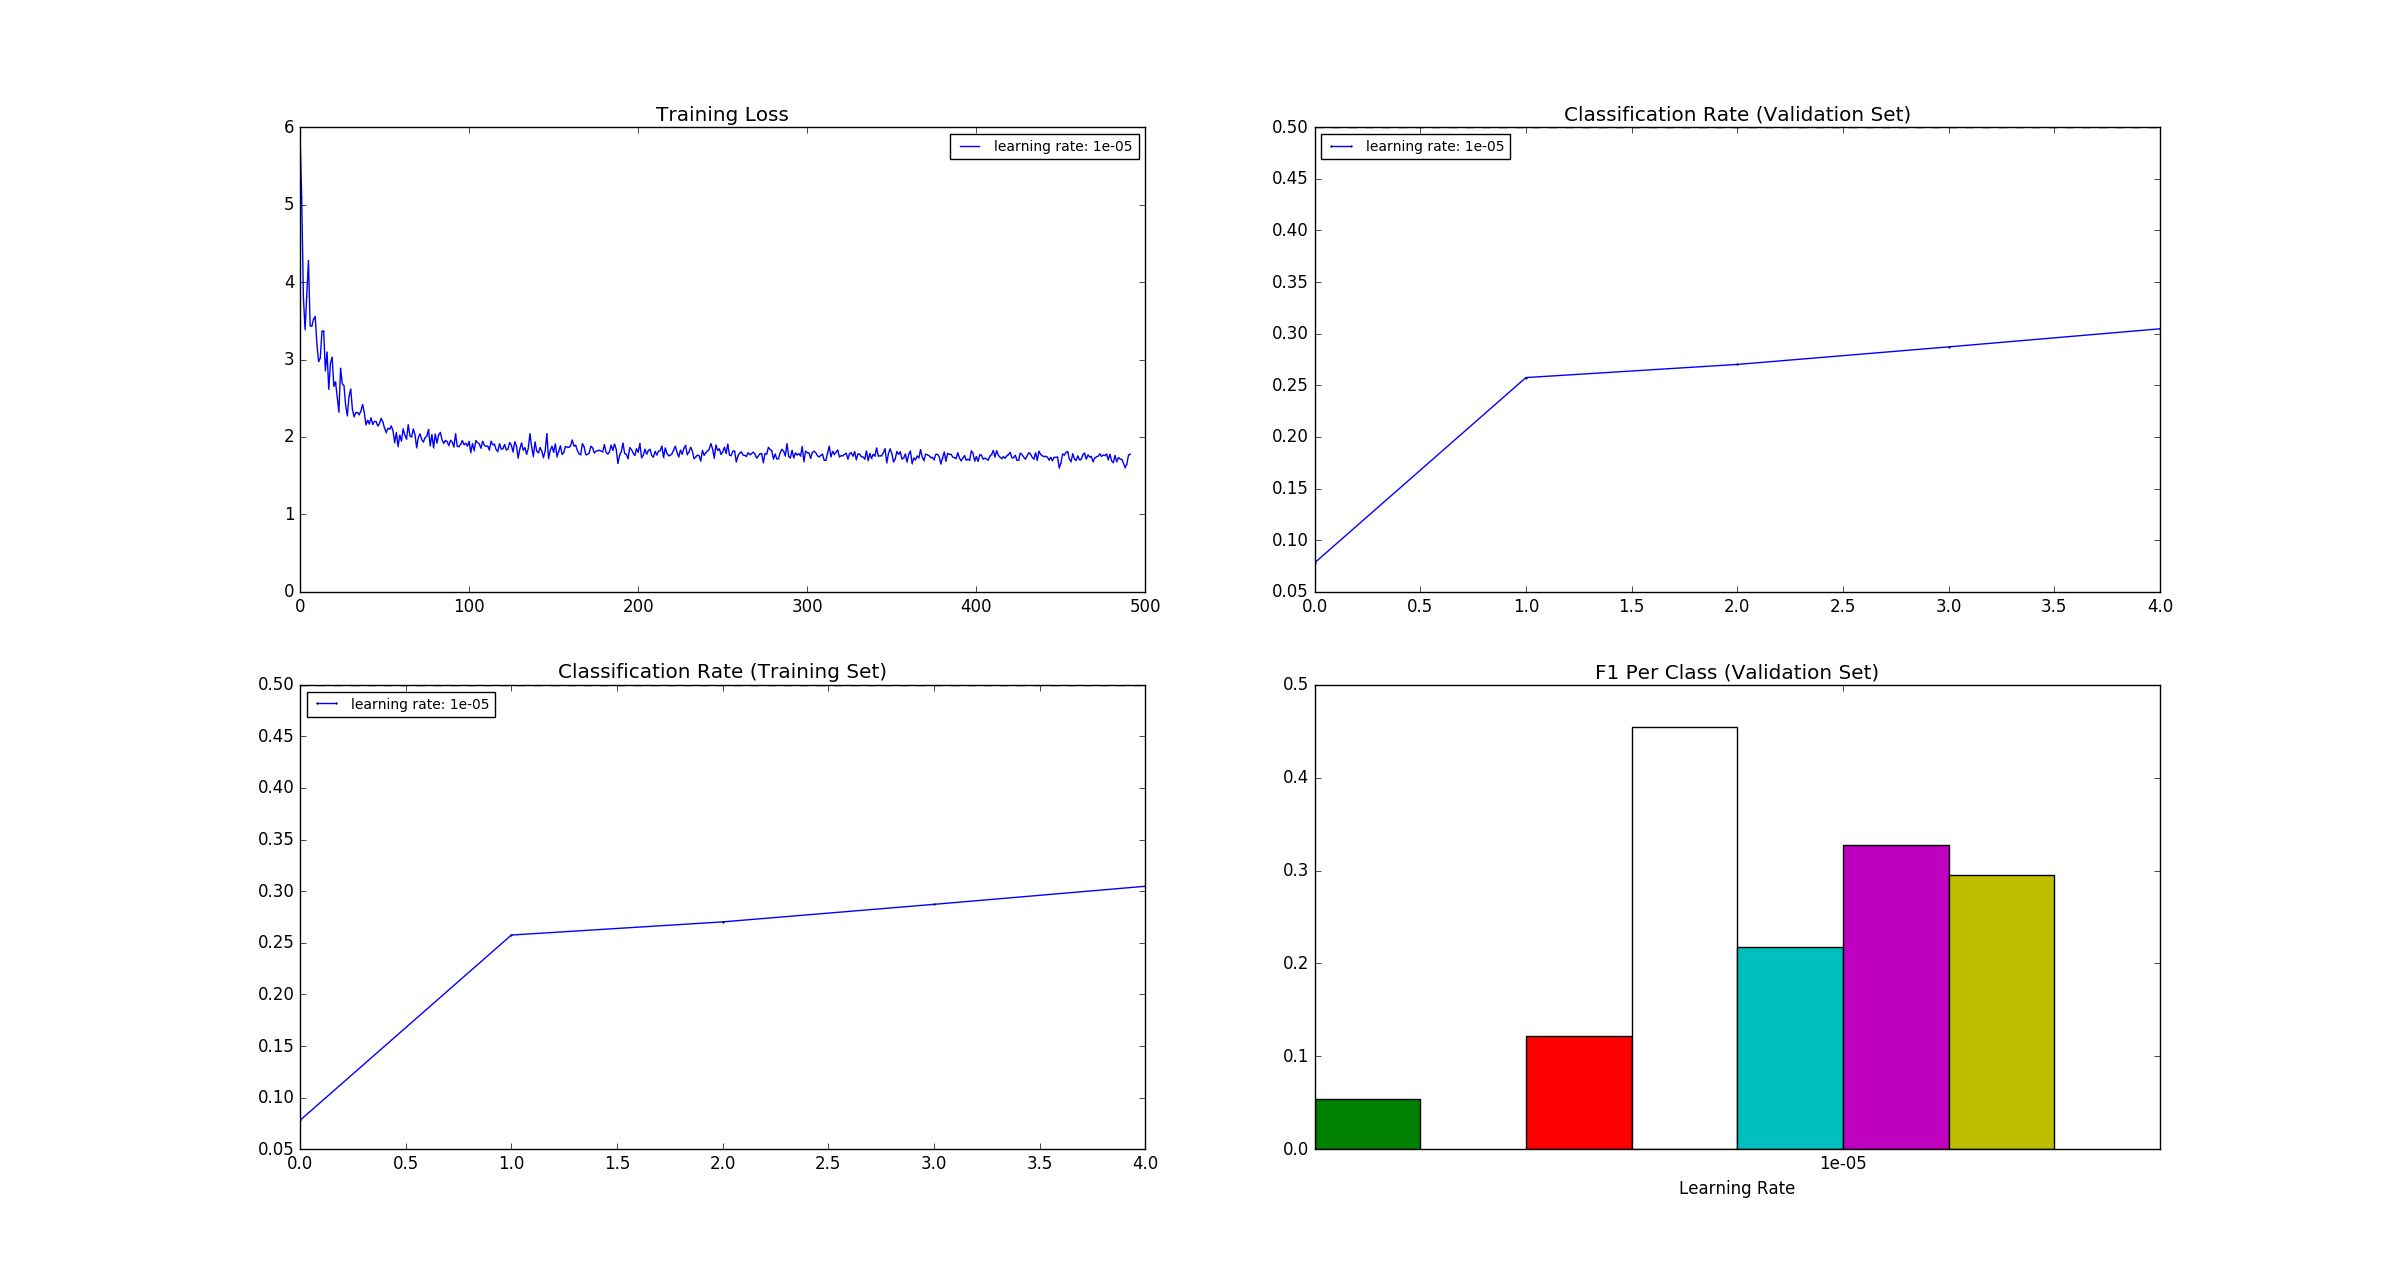
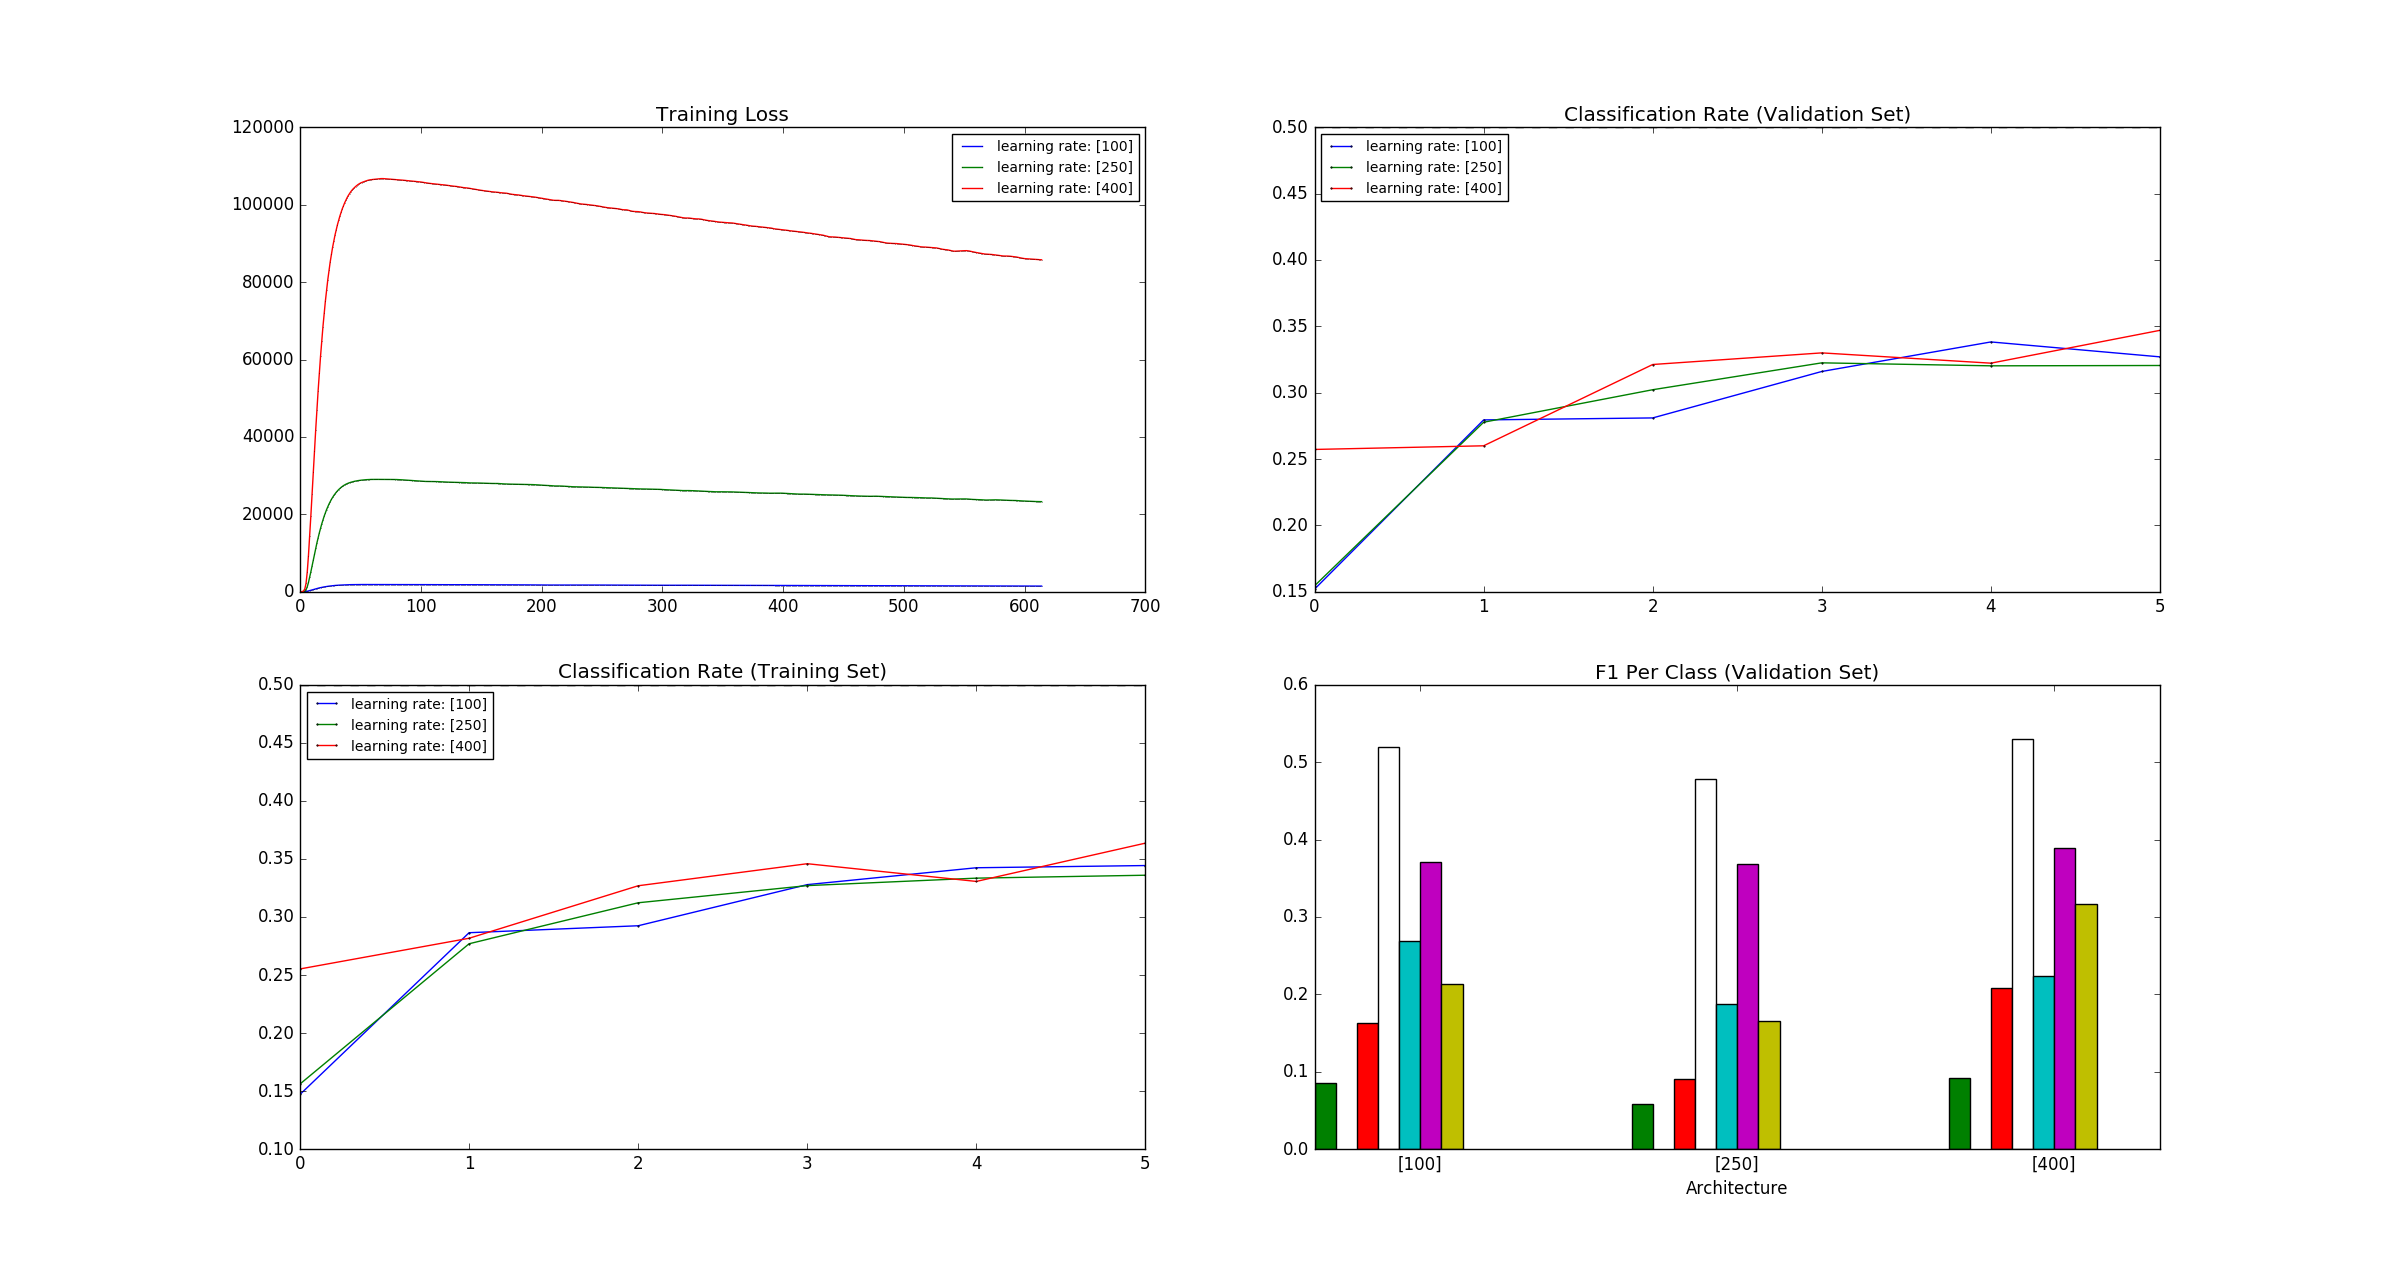
merge

diff --git a/src/optimising/learning.py b/src/optimising/learning.py
@@ -24,7 +24,7 @@ classAccs = []
 for learningRate in learningRates:
     # print(learningRate)
     model = FullyConnectedNet([120],input_dim = 48*48*1, dropout=0, reg=0, dtype=np.float64, seed=237)
-    number_epochs = 3
+    number_epochs = 2
     solver = Solver(model,data_dict,optim_config={'learning_rate':learningRate},lr_decay=1,num_epochs=number_epochs,batch_size=200,print_every=5000,num_train_samples=40000)
     results = solver.train()
     losses.append(solver.loss_history)
@@ -41,7 +41,7 @@ fig = plt.figure(figsize=(3,6))
 plt.subplot(2,2,1)
 plt.title("Training Loss")
 for i, loss in enumerate(losses):
-    plt.plot(loss,'-o',ms=0.1,label="learning rate: " + str(learningRates[i]))
+    plt.plot(loss,'-o',ms=0.1,label="learning rate: " + str(archs[i]))
 plt.ylim(0, 6)
 plt.legend(prop=fontP,loc='upper right')
 
@@ -49,7 +49,7 @@ plt.legend(prop=fontP,loc='upper right')
 plt.subplot(2,2,2)
 plt.title("Classification Rate (Validation Set)")
 for i, accuracy in enumerate(accuracies):
-    plt.plot(accuracy,'-o',ms=1, label="learning rate: " + str(learningRates[i]))
+    plt.plot(accuracy,'-o',ms=1, label="learning rate: " + str(archs[i]))
 plt.plot([0.5]* len(solver.val_acc_history),'k--')
 plt.legend(prop=fontP,loc='upper left')
 plt.xlim(0,number_epochs)
@@ -57,14 +57,14 @@ plt.xlim(0,number_epochs)
 plt.subplot(2,2,3)
 plt.title("Classification Rate (Training Set)")
 for i, accuracy in enumerate(trainAccs):
-    plt.plot(accuracy,'-o',ms=1,label="learning rate: " + str(learningRates[i]))
+    plt.plot(accuracy,'-o',ms=1,label="learning rate: " + str(archs[i]))
 plt.plot([0.5]* len(solver.train_acc_history),'k--')
 plt.legend(prop=fontP,loc='upper left')
 plt.xlim(0,number_epochs)
 
 plt.subplot(2,2,4)
 plt.title("F1 Per Class (Validation Set)")
-xTicks = [str(rate) for rate in learningRates]
+xTicks = [str(rate) for rate in archs]
 colours = ['g', 'b', 'r', 'w', 'c', 'm', 'y', 'k', "#505050", "#DD1000"]
 for i, f1 in enumerate(f1s):
     for j, f in enumerate(f1):

diff --git a/src/optimising/.#learning.py b/src/optimising/.#learning.py
@@ -1,0 +1,1 @@
+vincent@vincent-HP-Pavilion-Notebook.2921:1520271586
